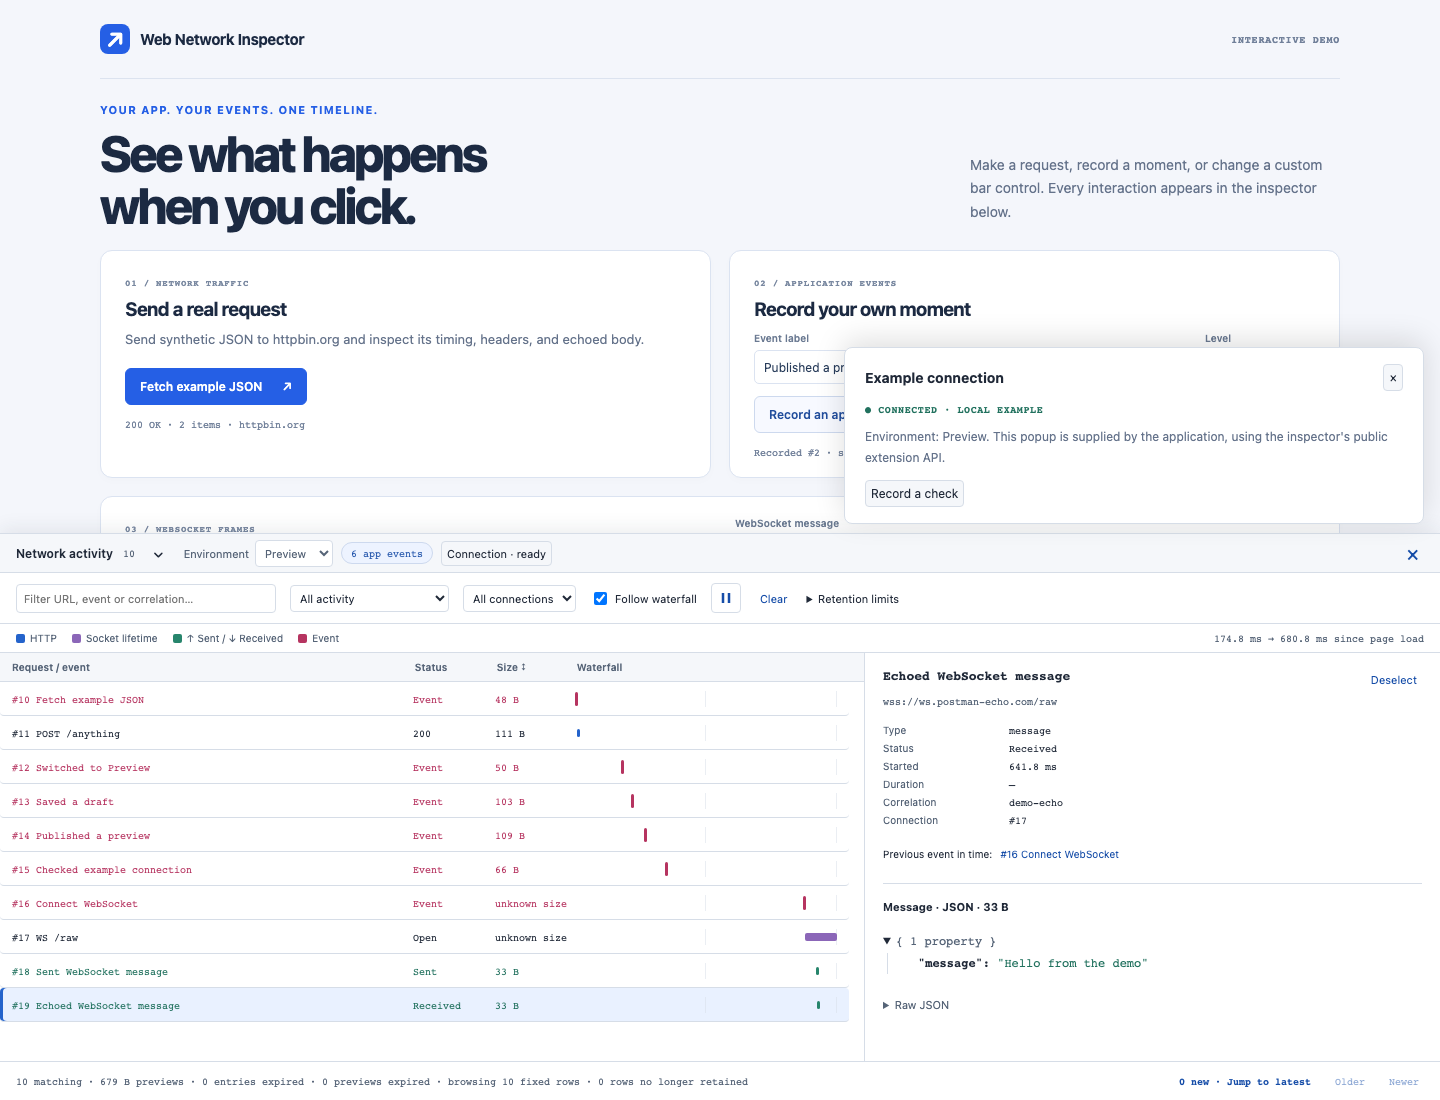
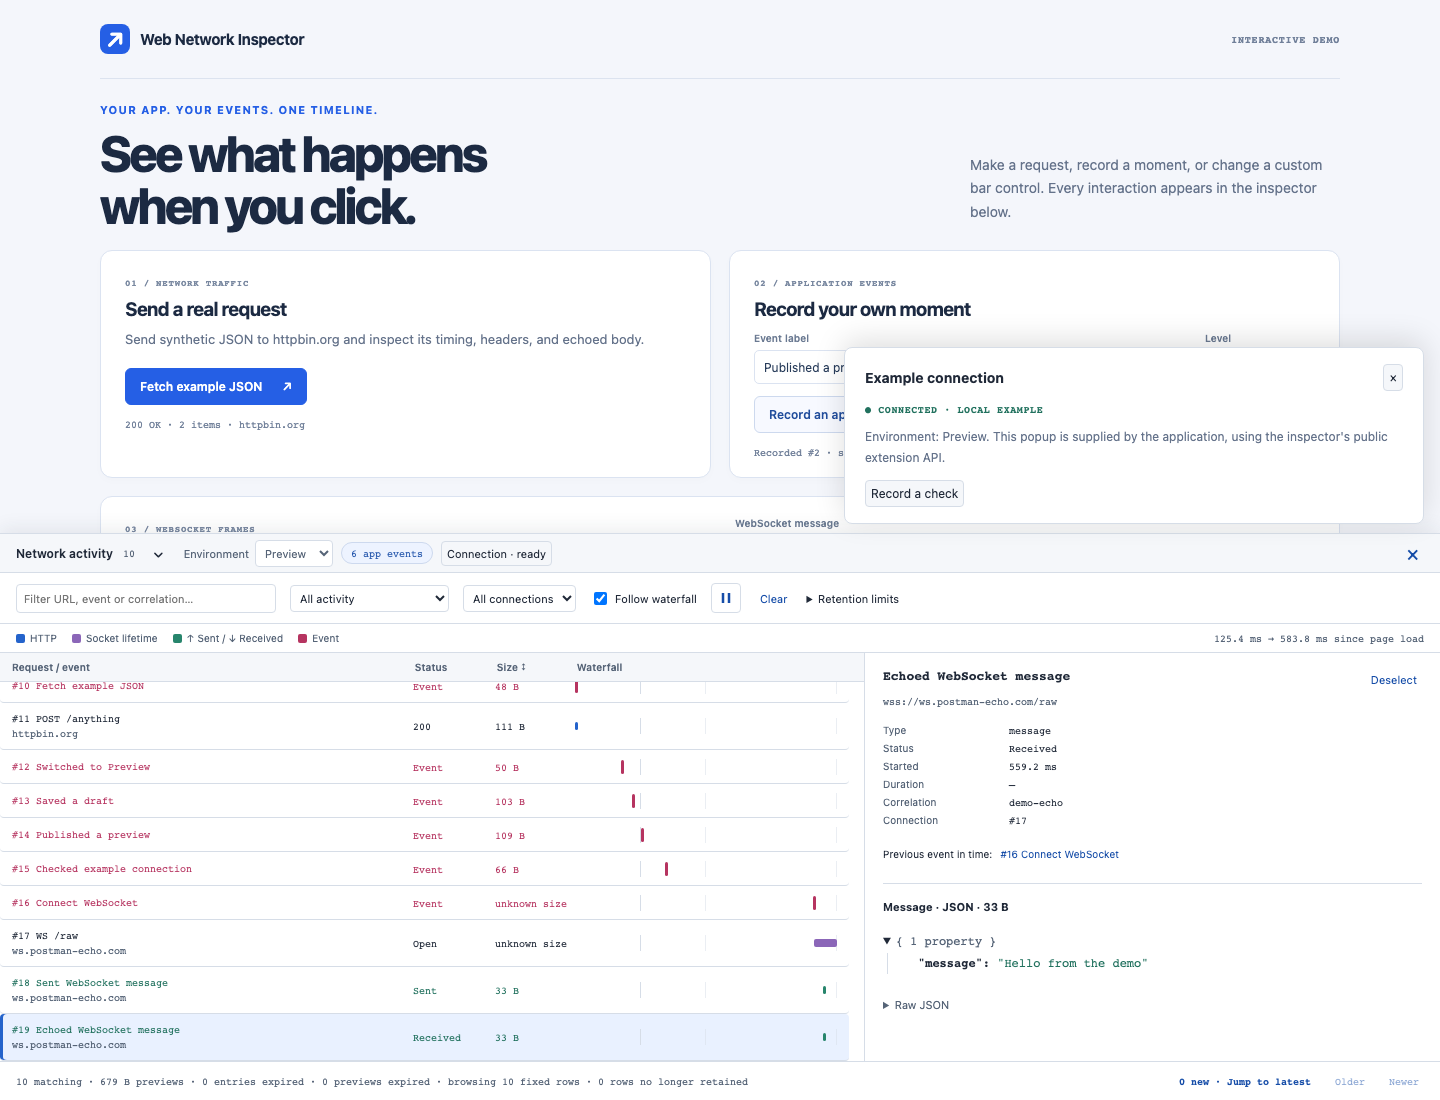
Problem: Activity rows hide the host of each request and WebSocket message
Solution: Show the host and port below each network activity label. Keep
application events without a URL on one line, and preserve custom message
labels. Check host display for requests, resources, connections, and messages.

AI-Agent: Codex

diff --git a/test/network-activity.test.js b/test/network-activity.test.js
@@ -202,6 +202,56 @@ function message(store, text) {
   return entry;
 }
 
+test("activity rows show their host and port, including labeled WebSocket frames", () =>
+  fixture(({ store, get, tick }) => {
+    for (const data of [
+      { kind: "http", method: "GET", url: "https://api.example.com/items" },
+      { kind: "http", method: "GET", url: "https://other.example.com/items" },
+      {
+        kind: "resource",
+        method: "GET",
+        url: "https://cdn.example.com/app.js",
+      },
+      { kind: "socket", url: "wss://socket.example.com:8443/messages" },
+      {
+        kind: "message",
+        direction: "in",
+        label: "Echoed message",
+        url: "wss://socket.example.com:8443/messages",
+      },
+      { kind: "http", method: "GET", url: "https://[::1]:8443/items" },
+      { kind: "http", method: "GET", url: "not a URL" },
+      { kind: "http", method: "GET", url: "data:text/plain,hello" },
+    ])
+      store.add(data);
+    store.recordEvent({ label: "Saved a draft" });
+    tick();
+    const rows = get("network-rows").children;
+    assert.deepEqual(
+      rows.map((row) => row.querySelector(".network-row-host").textContent),
+      [
+        "api.example.com",
+        "other.example.com",
+        "cdn.example.com",
+        "socket.example.com:8443",
+        "socket.example.com:8443",
+        "[::1]:8443",
+        "",
+        "",
+        "",
+      ],
+    );
+    assert.equal(rows[0].firstChild.firstChild.textContent, "#1 GET /items");
+    assert.equal(rows[1].firstChild.firstChild.textContent, "#2 GET /items");
+    assert.equal(
+      rows[4].firstChild.firstChild.textContent,
+      "#5 Echoed message",
+    );
+    for (const row of rows.slice(6))
+      assert.equal(row.querySelector(".network-row-host").hidden, true);
+    assert.equal(rows[8].firstChild.firstChild.textContent, "#9 Saved a draft");
+  }));
+
 test("new messages never replace the selected inspector, with waterfall follow enabled or disabled", () =>
   fixture(({ store, get, tick }) => {
     const selected = message(store, "selected message");
@@ -324,7 +374,11 @@ test("unchanged row labels are not replaced during live renders", () =>
     message(store, "first");
     tick();
     const row = get("network-rows").firstChild;
-    const labels = row.children.slice(0, 3),
+    const labels = [
+        row.firstChild.firstChild,
+        row.firstChild.lastChild,
+        ...row.children.slice(1, 3),
+      ],
       writes = labels.map((node) => node.textWrites);
     message(store, "second");
     tick();

diff --git a/src/network-activity.js b/src/network-activity.js
@@ -23,6 +23,14 @@ function name(entry) {
     return entry.url;
   }
 }
+function host(entry) {
+  if (entry.kind === "event") return "";
+  try {
+    return new URL(entry.url).host;
+  } catch {
+    return "";
+  }
+}
 export function activitySize(entry) {
   const size =
     entry.body?.size ?? entry.responseBody?.size ?? entry.transferSize;
@@ -666,6 +674,10 @@ export function setupNetworkActivity(root, scope, store) {
           "network-track",
         ])
           row.append(element("span", cls));
+        row.firstChild.append(
+          element("span", "network-row-label"),
+          element("span", "network-row-host"),
+        );
         const id = entry.id;
         row.lastChild.append(element("i"));
         listen(row, "click", () => select(id));
@@ -678,7 +690,11 @@ export function setupNetworkActivity(root, scope, store) {
         );
       previous = row;
       const label = name(entry);
-      text(row.children[0], `#${entry.id} ${label}`);
+      text(row.firstChild.firstChild, `#${entry.id} ${label}`);
+      const rowHost = row.firstChild.lastChild,
+        hostname = host(entry);
+      text(rowHost, hostname);
+      rowHost.hidden = !hostname;
       row.title = entry.url ? `${label}\n${entry.url}` : label;
       text(
         row.children[1],

diff --git a/src/style.css b/src/style.css
@@ -254,6 +254,16 @@ svg {
   text-overflow: ellipsis;
   white-space: nowrap;
 }
+.network-row-label,
+.network-row-host {
+  display: block;
+  overflow: hidden;
+  text-overflow: ellipsis;
+  line-height: 1.5;
+}
+.network-row-host {
+  color: var(--muted);
+}
 .network-row[data-kind="event"] {
   color: var(--signal, #b63460);
 }
